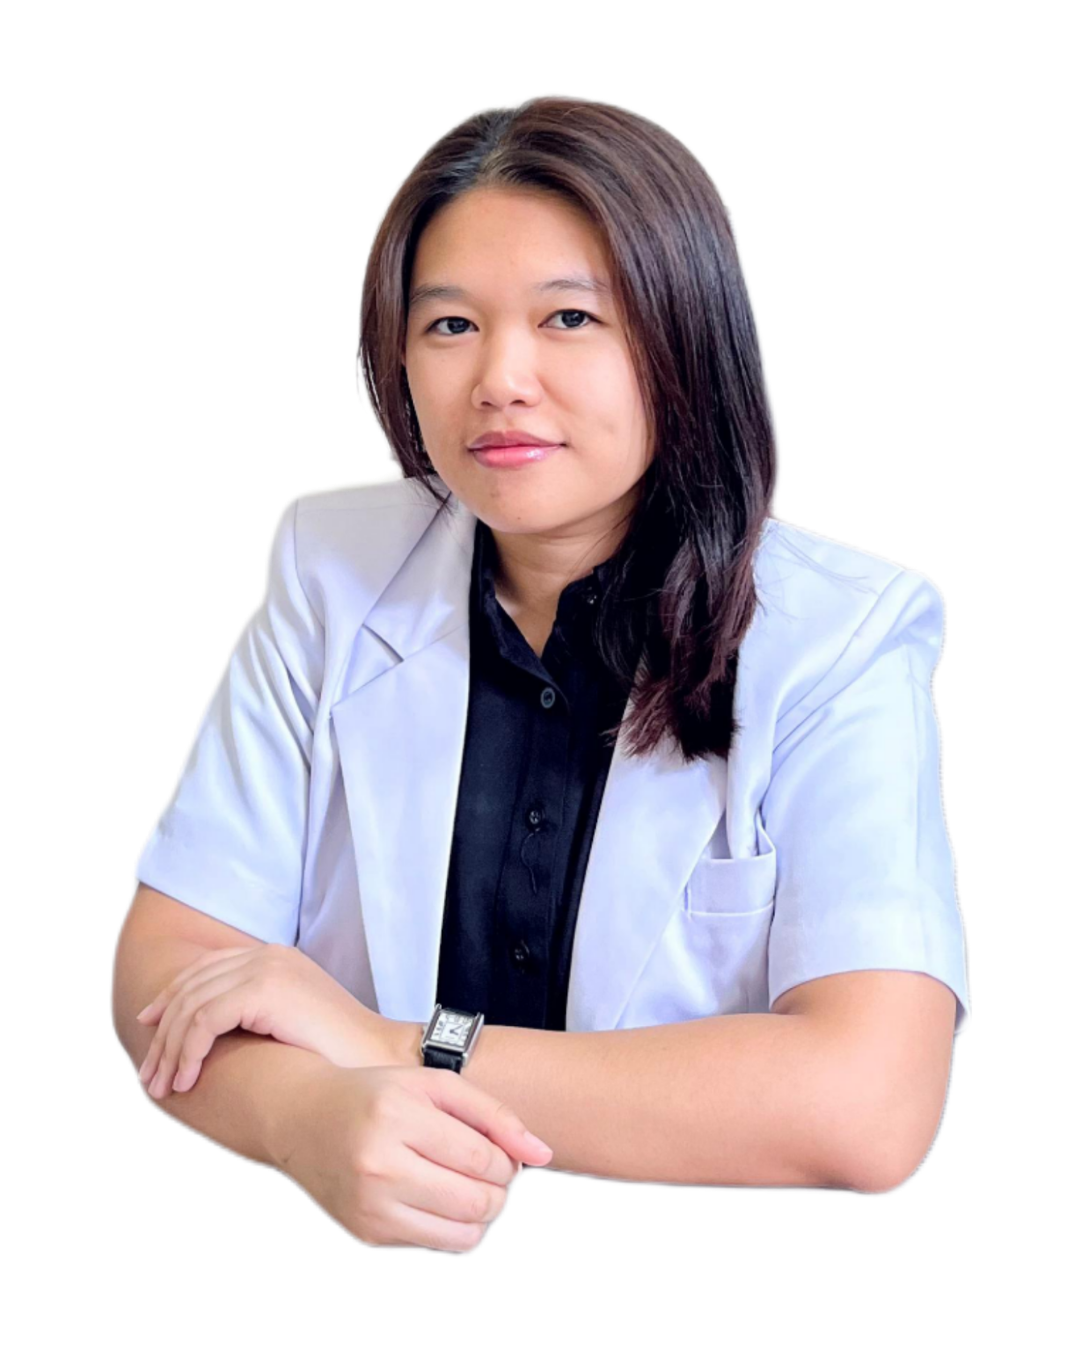
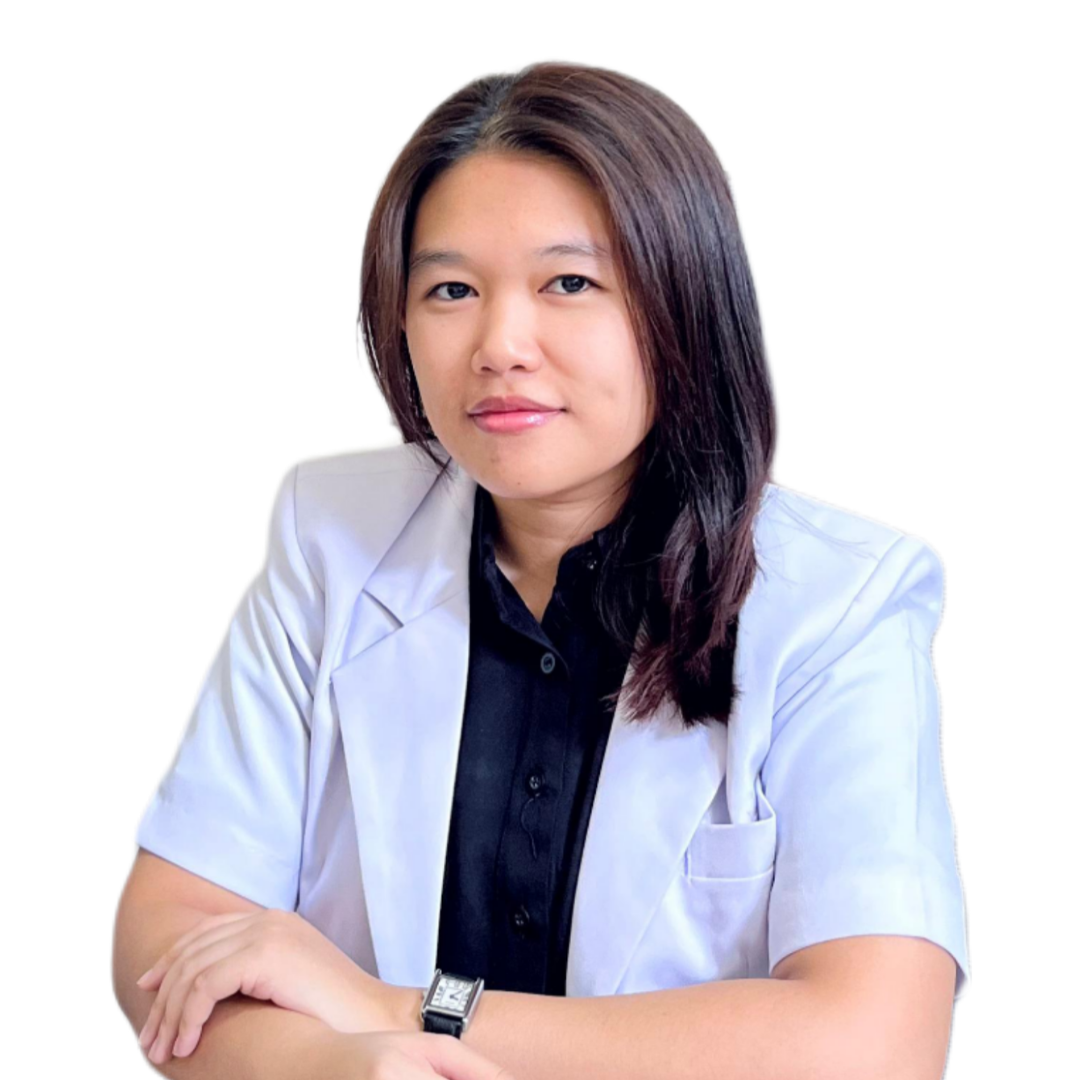
profile: adjust profile photo

diff --git a/index.html b/index.html
@@ -21,7 +21,7 @@
     </header>
     <main class="main-container">
         <div class="content">
-        <img class="image" src="queen.jpg" alt="Myself">
+        <img class="image" src="profile.png" alt="Myself">
         <h1 data-aos="fade-right">Hi, I'm 
             <span>Ega</span></h1>
             <h1>I'm a <div class="text"><span>Software Engineer</span>

diff --git a/aboutme.html b/aboutme.html
@@ -25,7 +25,7 @@
             <div class="title"><span>About Me</span></div>
         <div class="about-details">
             <div class="left">
-                <img src="queen.jpg" alt="">
+                <img src="profile.png" alt="">
             </div>
             <div class="right">
                 <div class="topic">Science & Tech Lover</div>

diff --git a/index.css b/index.css
@@ -114,7 +114,7 @@ main .main-container {
 
 .main-container .image {
     width: 280px;
-    height: 300px;
+    height: 280px;
     border-radius: 80%;
     overflow: hidden;
     margin: 1rem 10vw 2rem 10vw;
